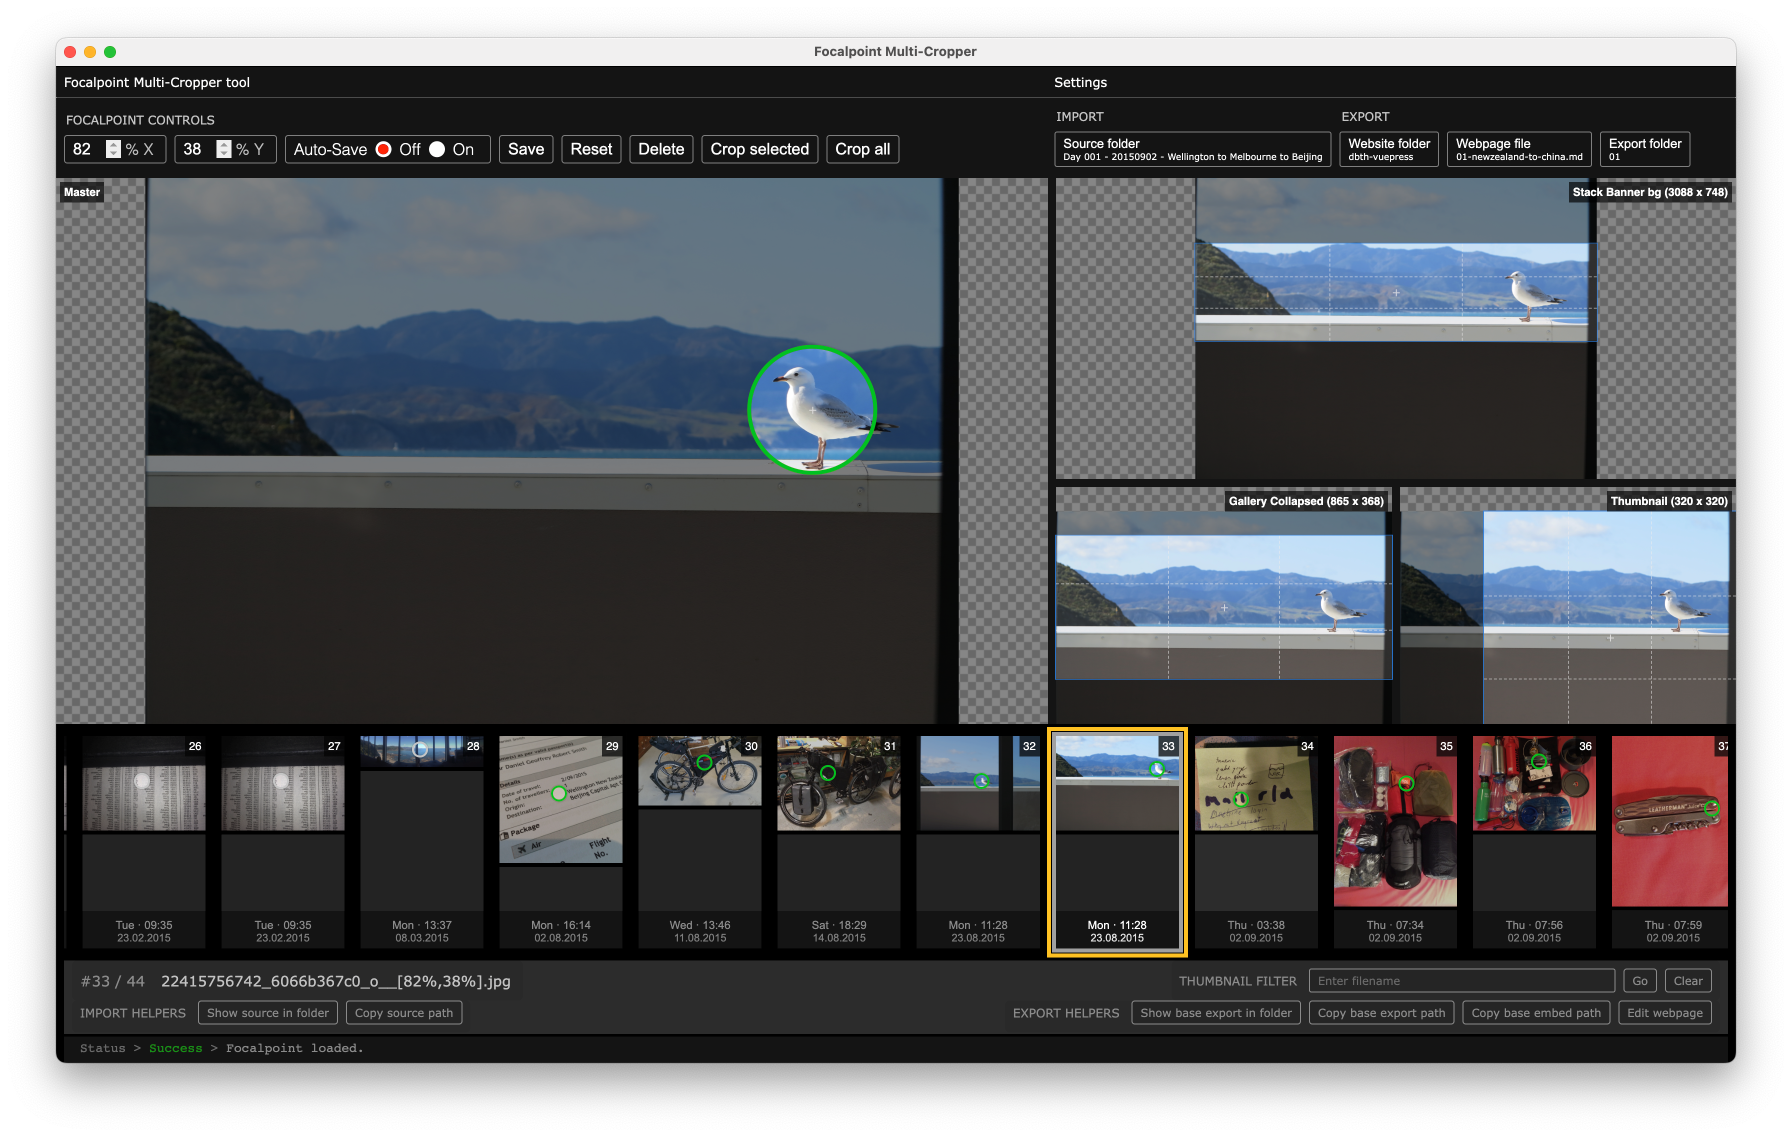
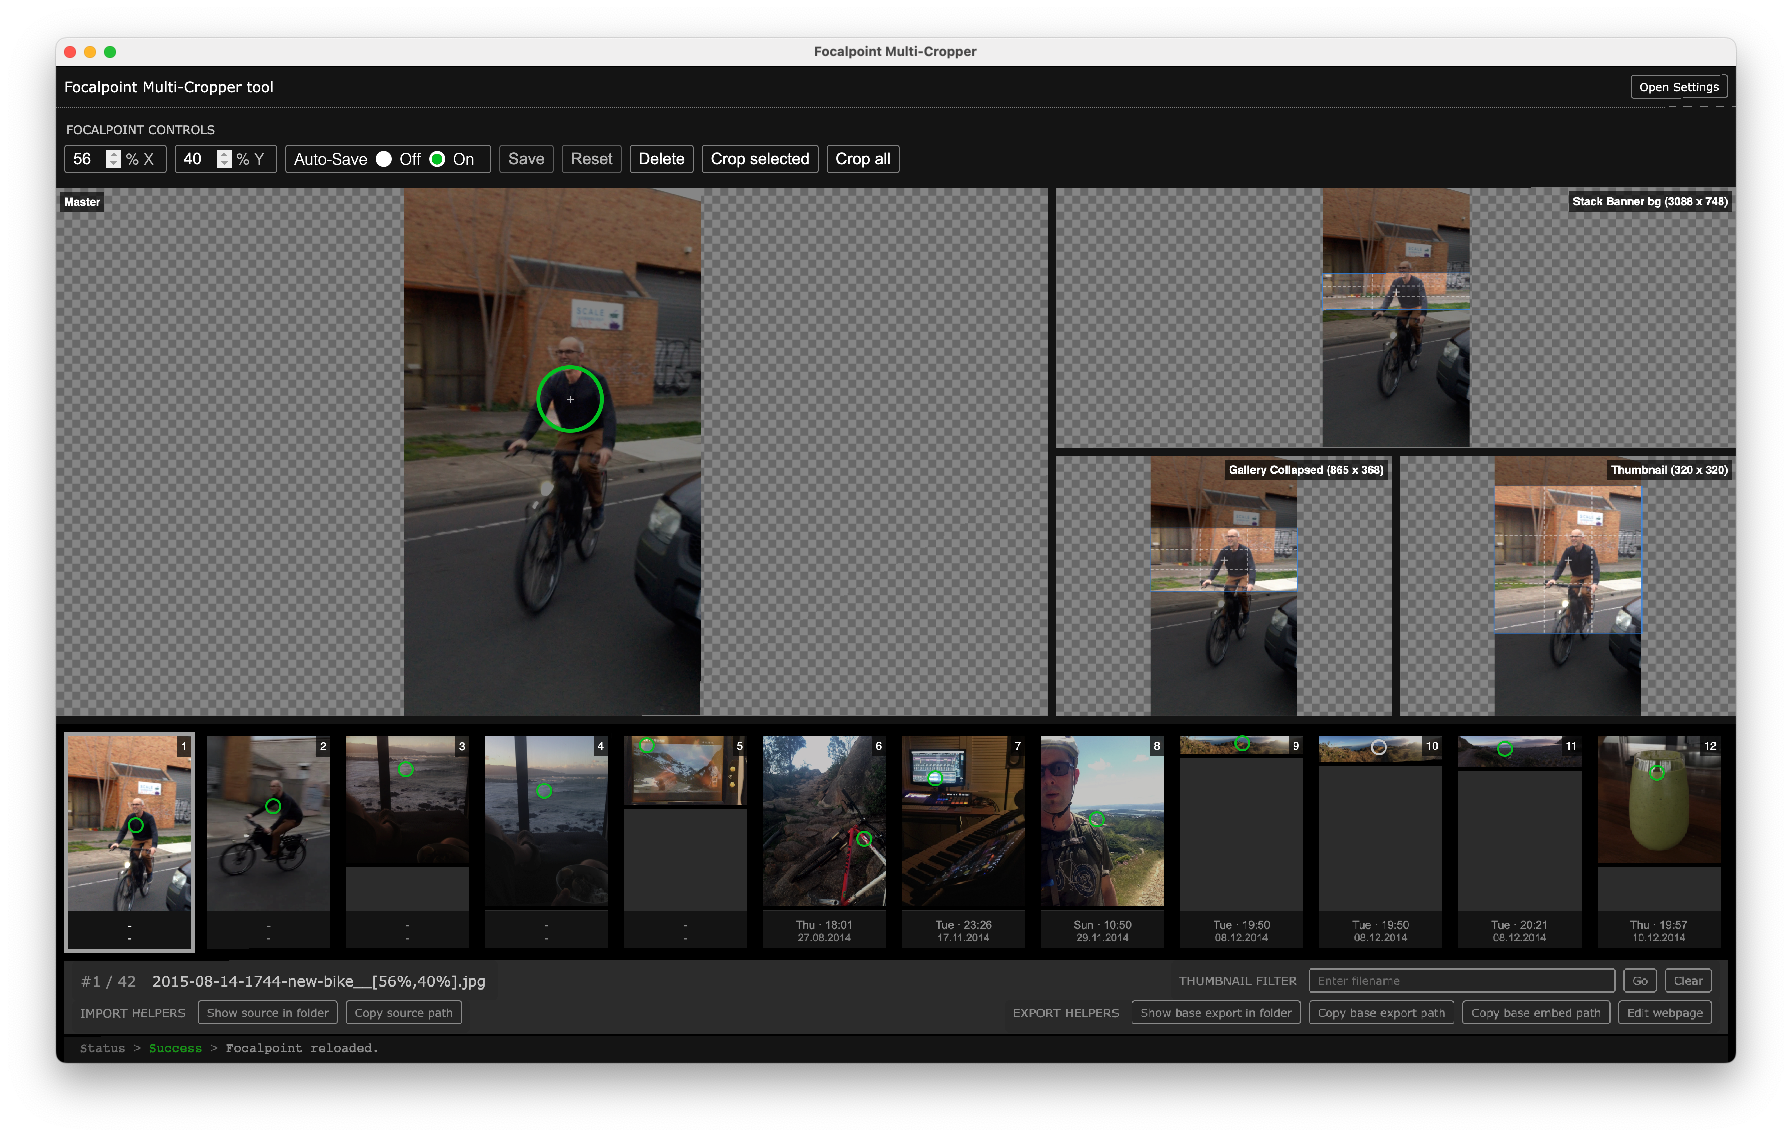
Update screenshot; add settings screenshot

diff --git a/README.md b/README.md
@@ -2,21 +2,23 @@
 
 <img src="screenshot-1.png">
 
+<img src="screenshot-2.png">
+
 ## Features
 
 * **Preview** - Single window containing multiple instances of [cropperjs](https://github.com/fengyuanchen/cropperjs) - one master cropper and one or more slave croppers with user-defined `exportWidth` and `exportHeight` proportions
 * **Load** - Leverage [Electron](https://www.electronjs.org/) to allow for loading of folders of images
 * **Filter** - Filter thumbnails by partial filename
 * **Set focalpoint** - Click the master cropper image or use the number inputs to set a focalpoint, slave croppers' crop boxes will automatically follow
-* **Rounding** - Initial focalpoint uses unrounded values, after a visual pause these are rounded to integers for easier storage
+* **Rounding** - Round focalpoint XY to integers for easier storage
 * **Storage** - Toggle on auto-save to write a non-default focalpoint to the image filename as a resolution-independent percentage of its width and height (integers), e.g. `foo__[40%,37%].jpg`
-* **Presets** - Store multiple locations in userData (macOS: `/Users/NAME/Library/Application Support/focalpoint-multi-cropper/user-preferences.json`)
 * **Reset** - Remove user changes and reapply the focalpoint stored in the image filename, or the defaults
 * **Delete** - Delete the focalpoint and remove non-default focalpoint from the image filename
 * **Resize & Crop** - Use [gm](https://github.com/aheckmann/gm) to `resizeAndCrop` from the slave croppers' crop boxes, and `resize` from the hidden non-cropper inclusions
 * **Locate** - Easily open the source and target image folders to keep track of where files are
 * **Embed** - Copy paths including a relative link suitable for pasting into a Markdown document or webpage, optionally output a target cross on the image
-* **Restore** - State is restored when reopening the Electron app
+* **Restore** - Settings are restored when reopening the Electron app
+* **Presets** - Store a batch of settings in userData (macOS: `/Users/NAME/Library/Application Support/focalpoint-multi-cropper/user-preferences.json`)
 
 ## Usage
 
@@ -70,7 +72,7 @@ document.getElementById('croppers').fmcCroppersUi
 
 I needed a tool to art-direct thousands of images for my bicycle touring blog.
 
-Previously I've used WordPress with Imgix. I am moving to non-subscription based systems as I no longer have the income to support these.
+Previously I've used WordPress with Imgix. I'm now moving away from subscription-based systems.
 
 I will use this app to generate image URLs for the next version of my blog which runs on Vuepress.
 
